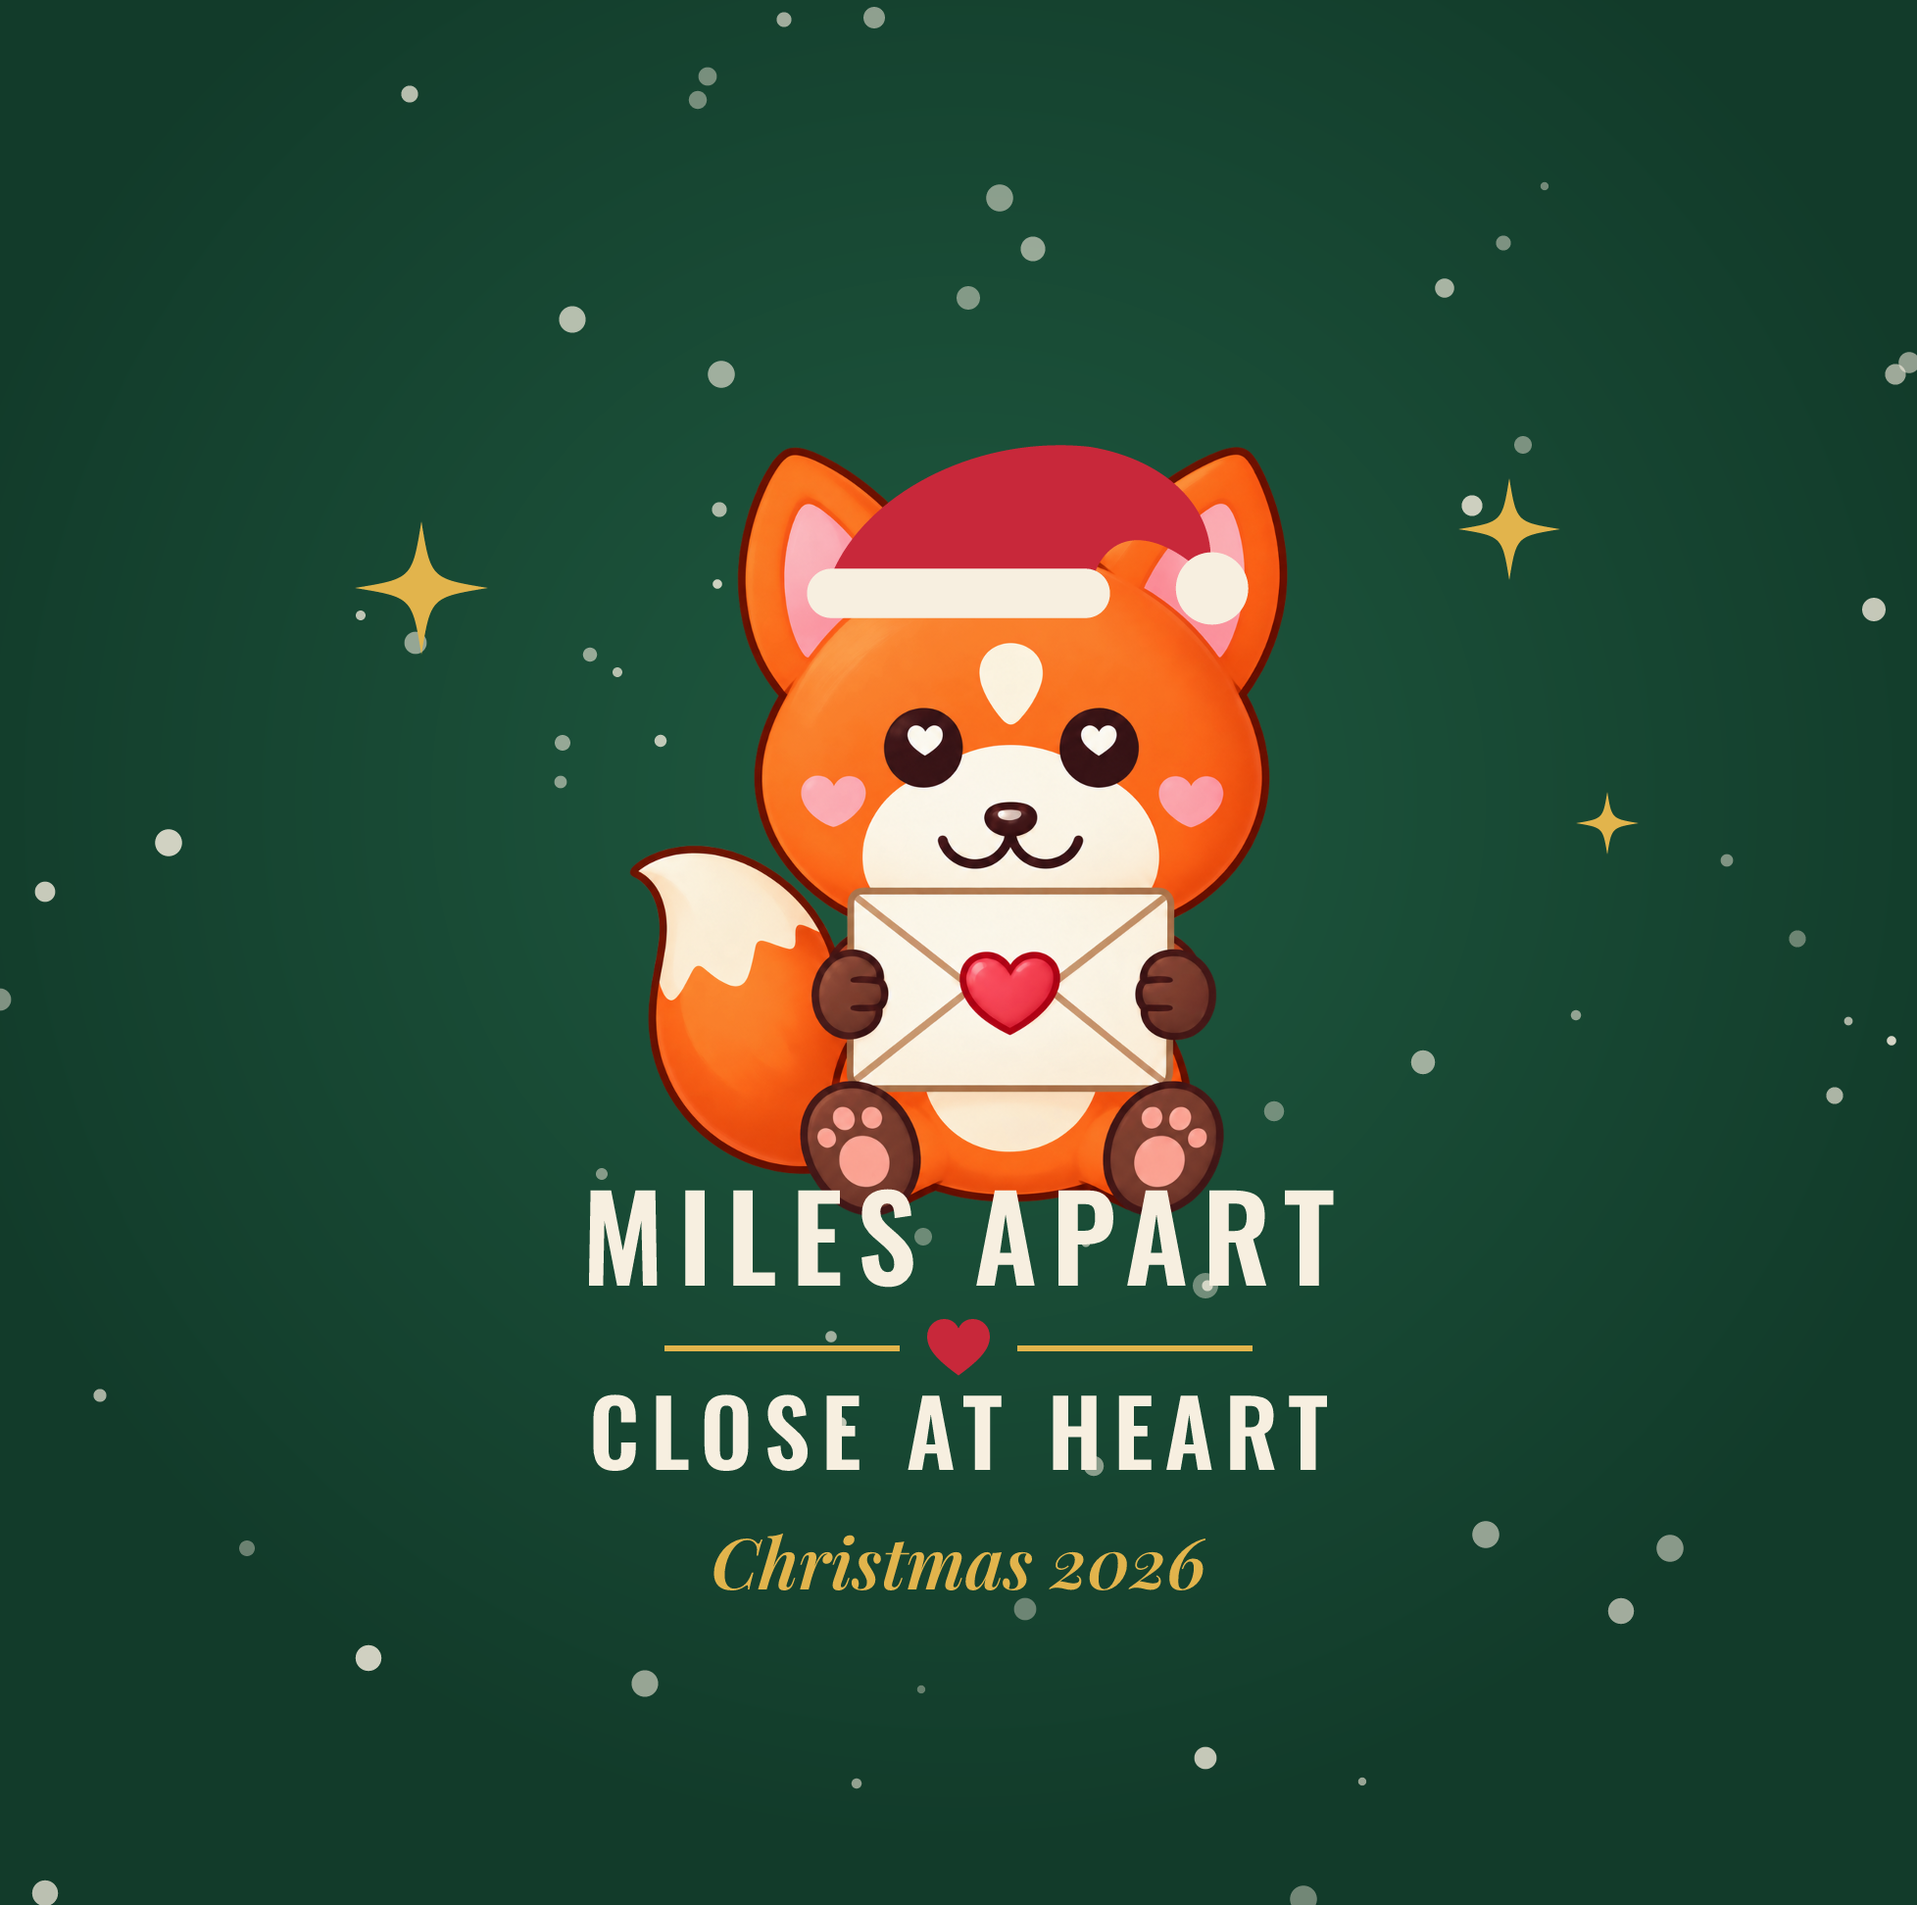
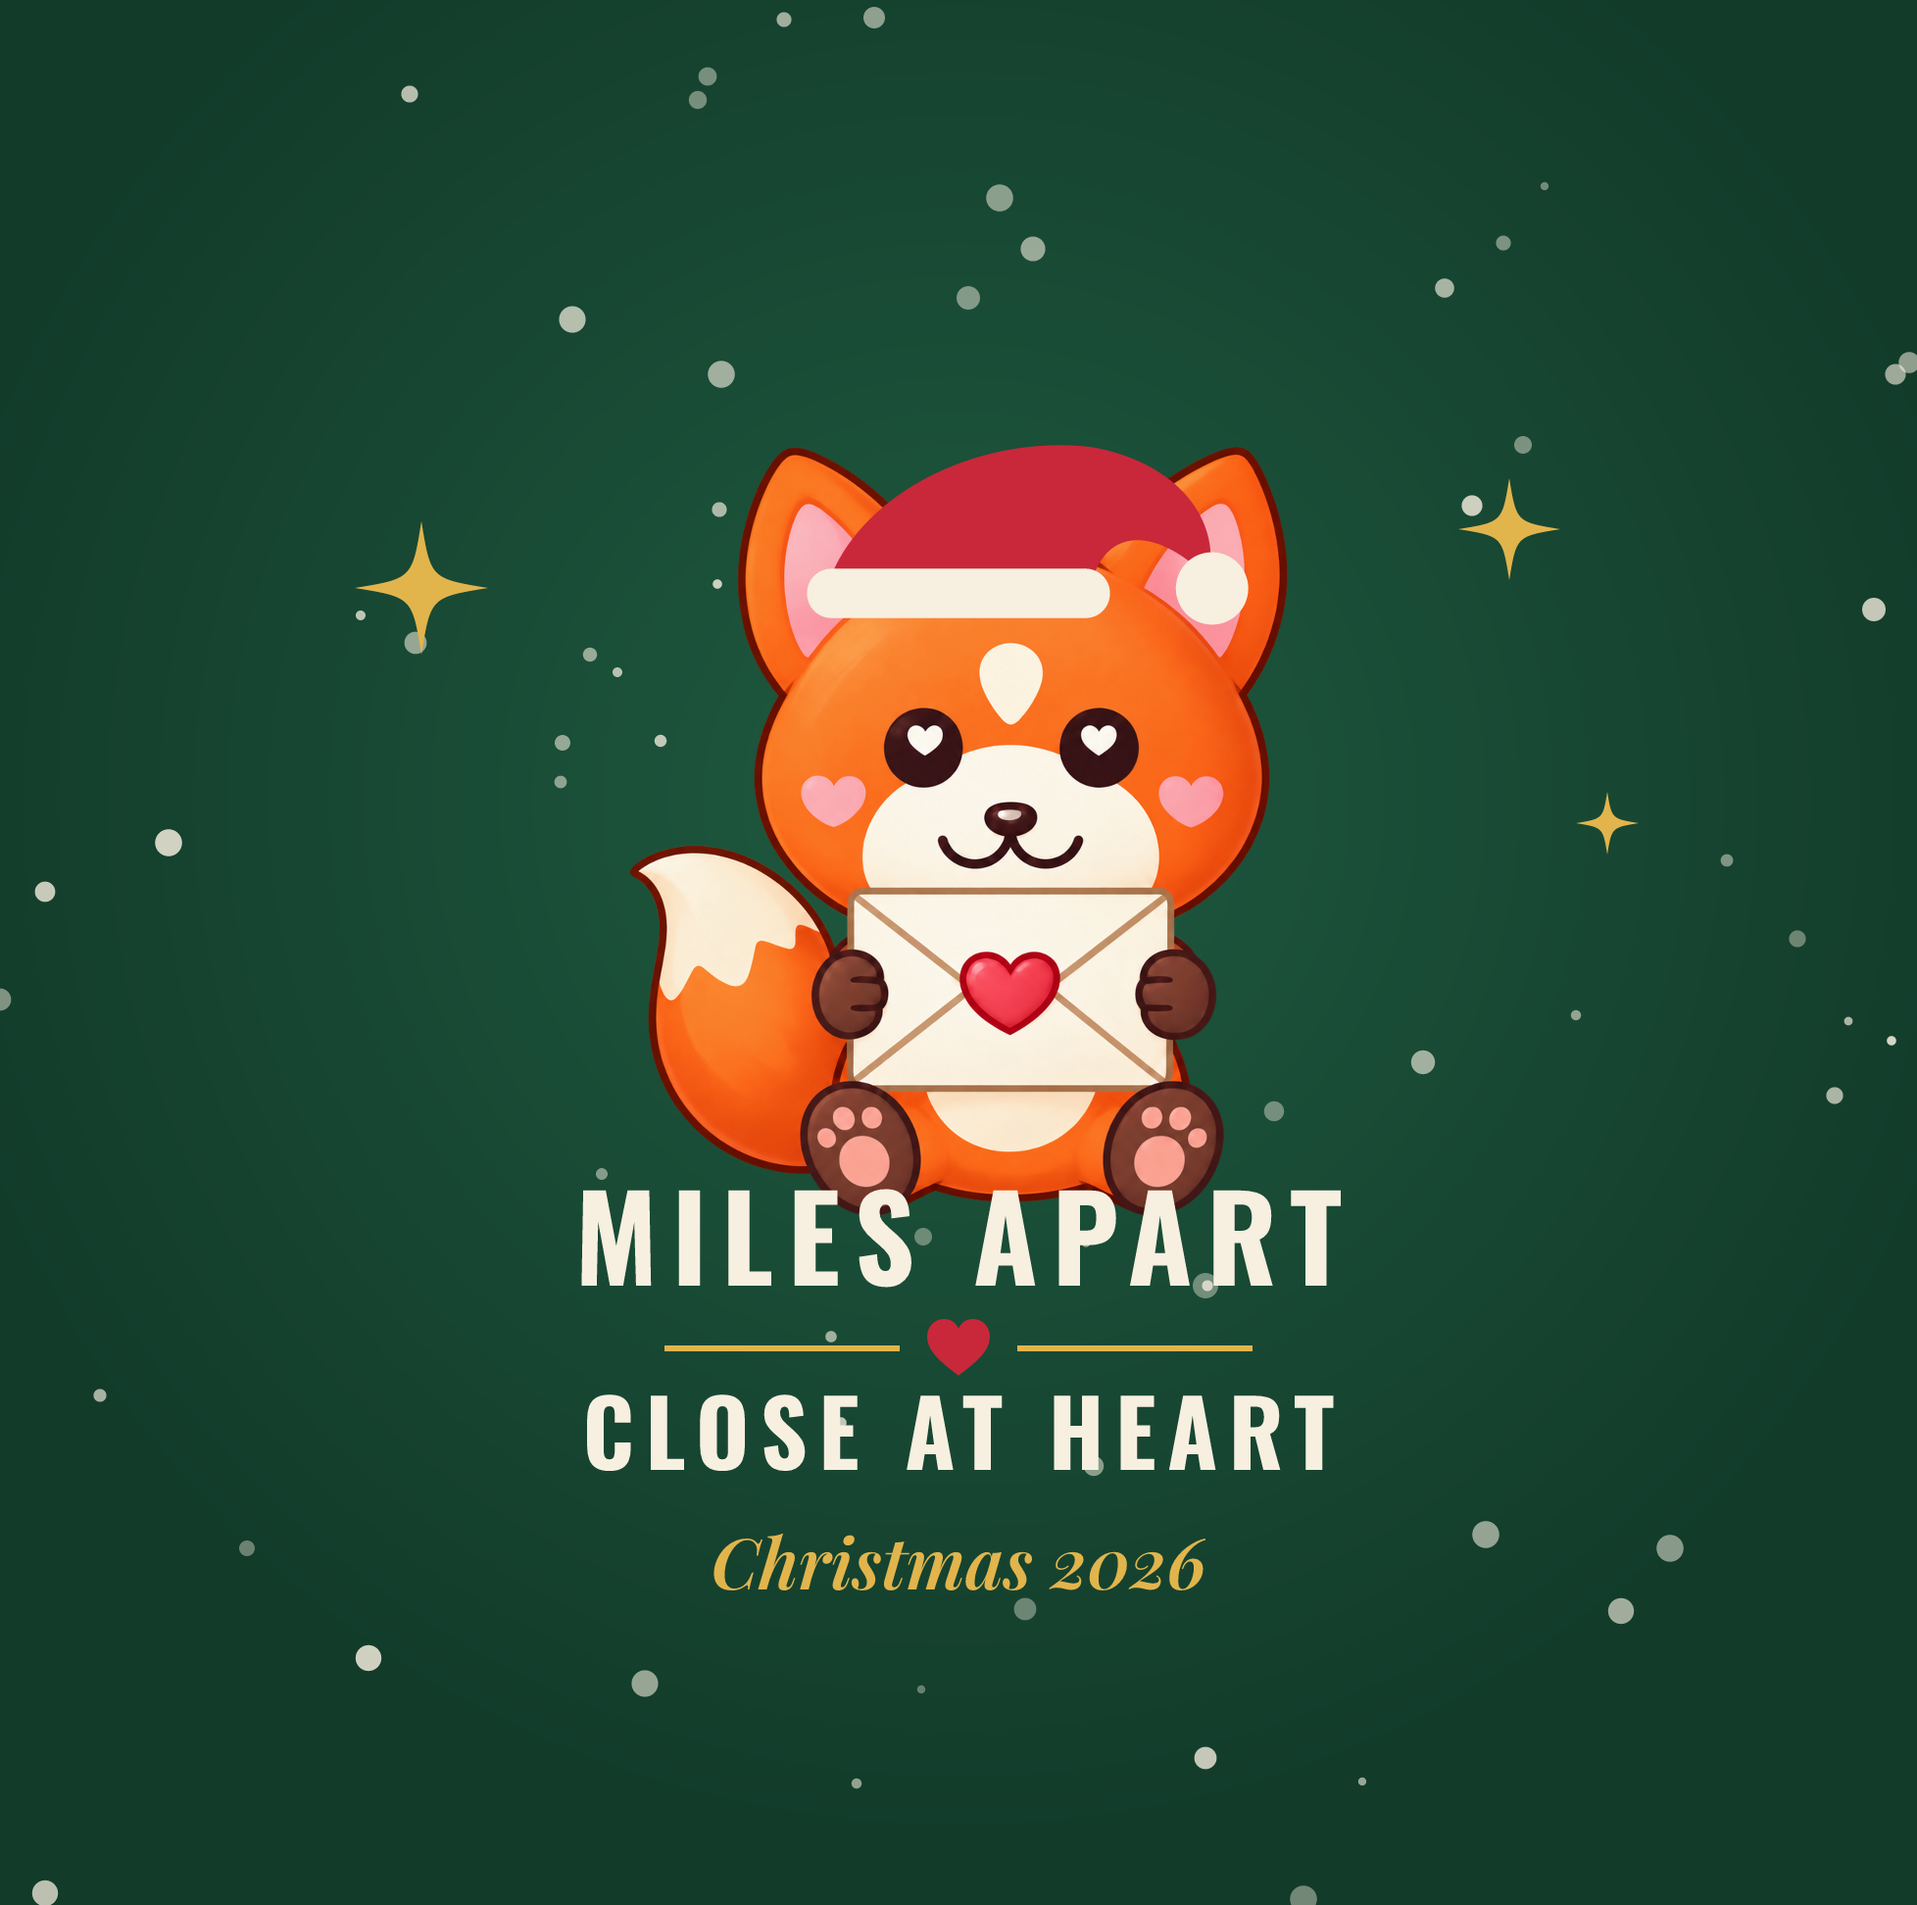
Holiday drop: personalised ornament, seasonal kit mapping and badges
The heart ornament takes two optional city names: the shop previews them live via
/api/ornament.png?w=, Snipcart carries them as Your city / Their city, and the
webhook swaps in the personalised print file. The Cobweb, Candy Corn, Fair Isle and
Red Nose kits map to their personalised backs; seasonal items get a badge.

diff --git a/src/lib/productPages.ts b/src/lib/productPages.ts
@@ -22,6 +22,7 @@ export const SHOP_CATEGORIES: { title: string; test: (name: string) => boolean }
   { title: 'Jerseys', test: (n) => /jersey/i.test(n) },
   { title: 'Tees, Sweats & Flannels', test: (n) => /tee|hoodie|crewneck|flannel/i.test(n) },
   { title: 'Mugs', test: (n) => /mug/i.test(n) },
+  { title: 'Ornaments', test: (n) => /ornament/i.test(n) },
   { title: 'Art Prints', test: (n) => /print/i.test(n) },
   { title: 'Stickers', test: (n) => /sticker/i.test(n) },
 ];
@@ -82,6 +83,10 @@ const KINDS: Record<string, Kind> = {
     label: 'Sticker sheet', productType: 'Stationery > Stickers > Sticker Sheets', apparel: false,
     facts: ['A5 sheet, 5.8 × 8.3 in', 'Glossy kiss-cut stickers with a white border', 'For laptops, notebooks and phone cases'],
   },
+  ornament: {
+    label: 'Christmas ornament', productType: 'Home > Decor > Christmas Ornaments', apparel: false,
+    facts: ['Glossy ceramic heart, about 2.9 × 2.7 in', 'The same design printed on both sides', 'Gold-coloured string for hanging', 'Add your two cities, or keep the stock Miles Apart, Close at Heart'],
+  },
   sticker: {
     label: 'Sticker', productType: 'Stationery > Stickers > Die-Cut Stickers', apparel: false,
     facts: ['2 × 2 in die-cut vinyl', 'Water and weather resistant', 'For water bottles, laptops and luggage'],
@@ -90,6 +95,7 @@ const KINDS: Record<string, Kind> = {
 
 export function kindOf(p: Pick<ShopProduct, 'name'>): Kind {
   const n = p.name;
+  if (/ornament/i.test(n)) return KINDS.ornament;
   if (/baseball/i.test(n)) return KINDS.baseball;
   if (/jersey/i.test(n)) return KINDS.fcJersey;
   if (/pocket tee/i.test(n)) return KINDS.pocketTee;
@@ -145,6 +151,14 @@ export const PRODUCT_COPY: Record<string, string> = {
   '436883154': 'A small Foxy on the chest, and an airmail envelope across the back over WORTH EVERY MILE. The hoodie to steal on a visit, and to send home smelling like you.',
   '436883133': 'Foxy with heart eyes, over HEART EYES, only for you. Our original design, and still the one people buy for each other most.',
 };
+
+/** The small label on a product photo: Pride, or the holiday a seasonal piece is for. */
+export function badgeFor(name: string): { label: string; className: string } | null {
+  if (/pride/i.test(name)) return { label: 'Pride', className: 'bg-fox-pink' };
+  if (/cobweb|candy\s*corn/i.test(name)) return { label: 'Halloween', className: 'bg-[#E8641E]' };
+  if (/fair\s*isle|red\s*nose|ornament/i.test(name)) return { label: 'Christmas', className: 'bg-[#1F5A40]' };
+  return null;
+}
 
 /** Products made to be bought as a pair: one for you, one for them. */
 export const PAIRS: Record<string, string> = {

diff --git a/src/pages/api/ornament.png.ts b/src/pages/api/ornament.png.ts
@@ -1,0 +1,28 @@
+import type { APIRoute } from 'astro';
+// @ts-ignore - plain-JS modules shared with scripts/make-ornament.mjs
+import { renderOrnamentPng } from '../../lib/ornamentRender.mjs';
+// @ts-ignore
+import { sanitizeCity } from '../../lib/ornamentArt.mjs';
+
+export const prerender = false;
+
+/**
+ * Personalised ornament print file: GET /api/ornament.png?top=NEW%20YORK&bottom=LONDON
+ * Printful fetches this URL at fulfilment (snipcart-webhook). With `w`, it returns a small preview
+ * clipped to the heart for the shop's live preview instead.
+ */
+const PREVIEW_WIDTH = { min: 200, max: 1000 };
+export const GET: APIRoute = async ({ url }) => {
+  const top = sanitizeCity(url.searchParams.get('top'));
+  const bottom = sanitizeCity(url.searchParams.get('bottom'));
+  if (!top && !bottom) return new Response('top or bottom required', { status: 400 });
+  const w = parseInt(url.searchParams.get('w') || '', 10);
+  const preview = Number.isFinite(w);
+  try {
+    const png = await renderOrnamentPng({ top, bottom, preview, site: url.origin, ...(preview ? { width: Math.min(PREVIEW_WIDTH.max, Math.max(PREVIEW_WIDTH.min, w)) } : {}) });
+    return new Response(new Uint8Array(png), { status: 200, headers: { 'Content-Type': 'image/png', 'Cache-Control': 'public, max-age=86400' } });
+  } catch (e) {
+    console.error('ornament render failed', String(e));
+    return new Response('render error', { status: 500 });
+  }
+};

diff --git a/src/pages/api/snipcart-webhook.ts b/src/pages/api/snipcart-webhook.ts
@@ -1,6 +1,6 @@
 import type { APIRoute } from 'astro';
 // @ts-ignore - plain-JS module (no heavy deps) shared with shop + generator
-import { kitForColour, backUrl, pickVariant, variantColor } from '../../lib/kits.mjs';
+import { kitForColour, backUrl, pickVariant, variantColor, isOrnamentName, ornamentUrl } from '../../lib/kits.mjs';
 // @ts-ignore
 import { mapNotification, partitionOrderItems, snipcartAuth } from '../../lib/digitalMapOrder.mjs';
 // @ts-ignore
@@ -211,6 +211,9 @@ export const POST: APIRoute = async ({ request }) => {
       if (!files.some((f: any) => f.type === 'back')) files.push({ type: 'back', url: customBack });
       item.files = files;
     }
+    // A personalised ornament prints the two cities in place of its stock lines.
+    const cityA = fv('your city'), cityB = fv('their city');
+    if (isOrnamentName(productName) && (cityA || cityB)) item.files = [{ type: 'default', url: ornamentUrl(cityA, cityB) }];
     pfItems.push(item);
   }
 
